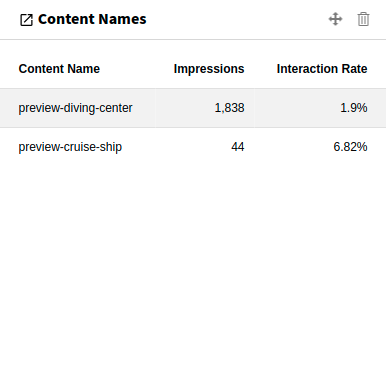
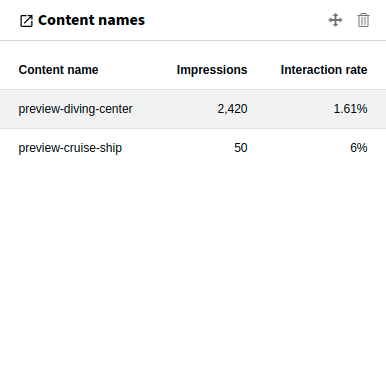
[TASK] Streamline translations

diff --git a/Classes/DependencyInjection/Widgets/BrowserPluginsRegistration.php b/Classes/DependencyInjection/Widgets/BrowserPluginsRegistration.php
@@ -77,7 +77,7 @@ final class BrowserPluginsRegistration extends AbstractRegistration
                     ],
                     [
                         'column' => 'nb_visits_percentage',
-                        'header' => Extension::LANGUAGE_PATH_DASHBOARD . ':visits_percentage',
+                        'header' => Extension::LANGUAGE_PATH_DASHBOARD . ':visitsPercentage',
                         'classes' => 'text-right',
                     ],
                     [
@@ -95,7 +95,7 @@ final class BrowserPluginsRegistration extends AbstractRegistration
     {
         $localisedTitle = Extension::LANGUAGE_PATH_DASHBOARD . ':widgets.devicePlugins.plugin.title';
         $title = $this->matomoConfiguration->getSiteTitle()
-            ? \sprintf('%s: %s', $this->matomoConfiguration->getSiteTitle(), 'Browser Plugins')
+            ? \sprintf('%s: %s', $this->matomoConfiguration->getSiteTitle(), 'Browser plugins')
             : $localisedTitle;
 
         $this->services

diff --git a/Classes/DependencyInjection/Widgets/SiteSearchKeywordsRegistration.php b/Classes/DependencyInjection/Widgets/SiteSearchKeywordsRegistration.php
@@ -80,7 +80,7 @@ final class SiteSearchKeywordsRegistration extends AbstractRegistration
     {
         $localisedTitle = Extension::LANGUAGE_PATH_DASHBOARD . ':widgets.actions.siteSearchKeywords.title';
         $title = $this->matomoConfiguration->getSiteTitle()
-            ? \sprintf('%s: %s', $this->matomoConfiguration->getSiteTitle(), 'Site Search Keywords')
+            ? \sprintf('%s: %s', $this->matomoConfiguration->getSiteTitle(), 'Site search keywords')
             : $localisedTitle;
 
         $this->services

diff --git a/Classes/DependencyInjection/Widgets/ContentPiecesRegistration.php b/Classes/DependencyInjection/Widgets/ContentPiecesRegistration.php
@@ -85,7 +85,7 @@ final class ContentPiecesRegistration extends AbstractRegistration
     {
         $localisedTitle = Extension::LANGUAGE_PATH_DASHBOARD . ':widgets.contents.contentPieces.title';
         $title = $this->matomoConfiguration->getSiteTitle()
-            ? \sprintf('%s: %s', $this->matomoConfiguration->getSiteTitle(), 'Content Pieces')
+            ? \sprintf('%s: %s', $this->matomoConfiguration->getSiteTitle(), 'Content pieces')
             : $localisedTitle;
 
         $this->services

diff --git a/Classes/DependencyInjection/Widgets/ContentNamesRegistration.php b/Classes/DependencyInjection/Widgets/ContentNamesRegistration.php
@@ -85,7 +85,7 @@ final class ContentNamesRegistration extends AbstractRegistration
     {
         $localisedTitle = Extension::LANGUAGE_PATH_DASHBOARD . ':widgets.contents.contentNames.title';
         $title = $this->matomoConfiguration->getSiteTitle()
-            ? \sprintf('%s: %s', $this->matomoConfiguration->getSiteTitle(), 'Content Names')
+            ? \sprintf('%s: %s', $this->matomoConfiguration->getSiteTitle(), 'Content names')
             : $localisedTitle;
 
         $this->services
